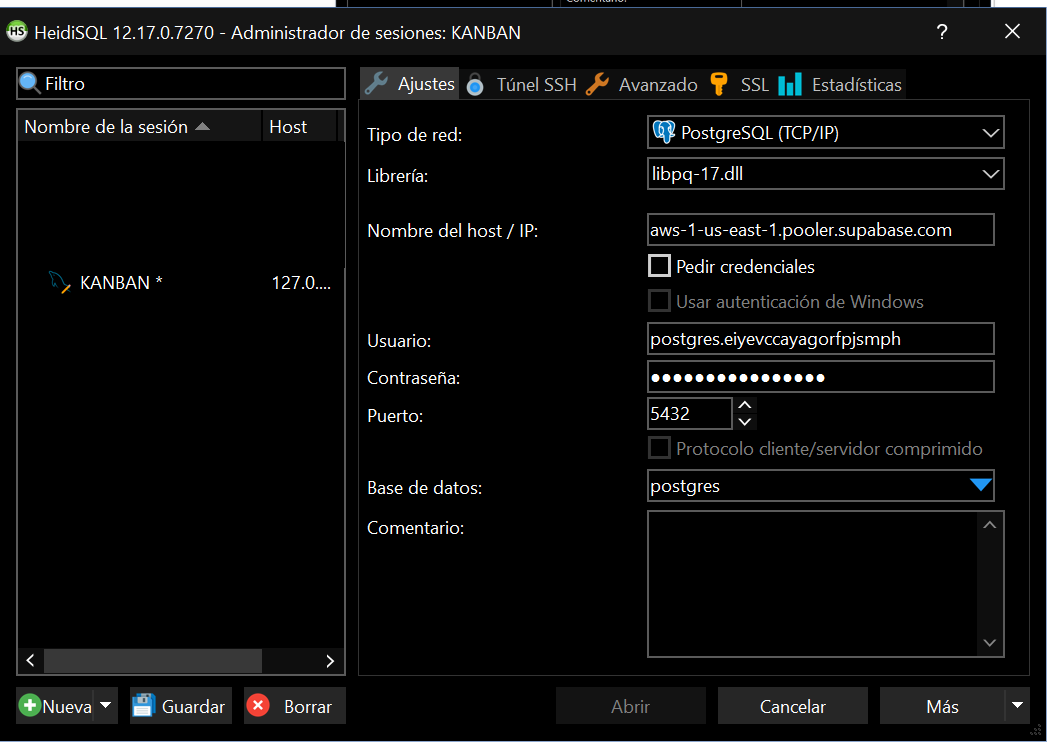
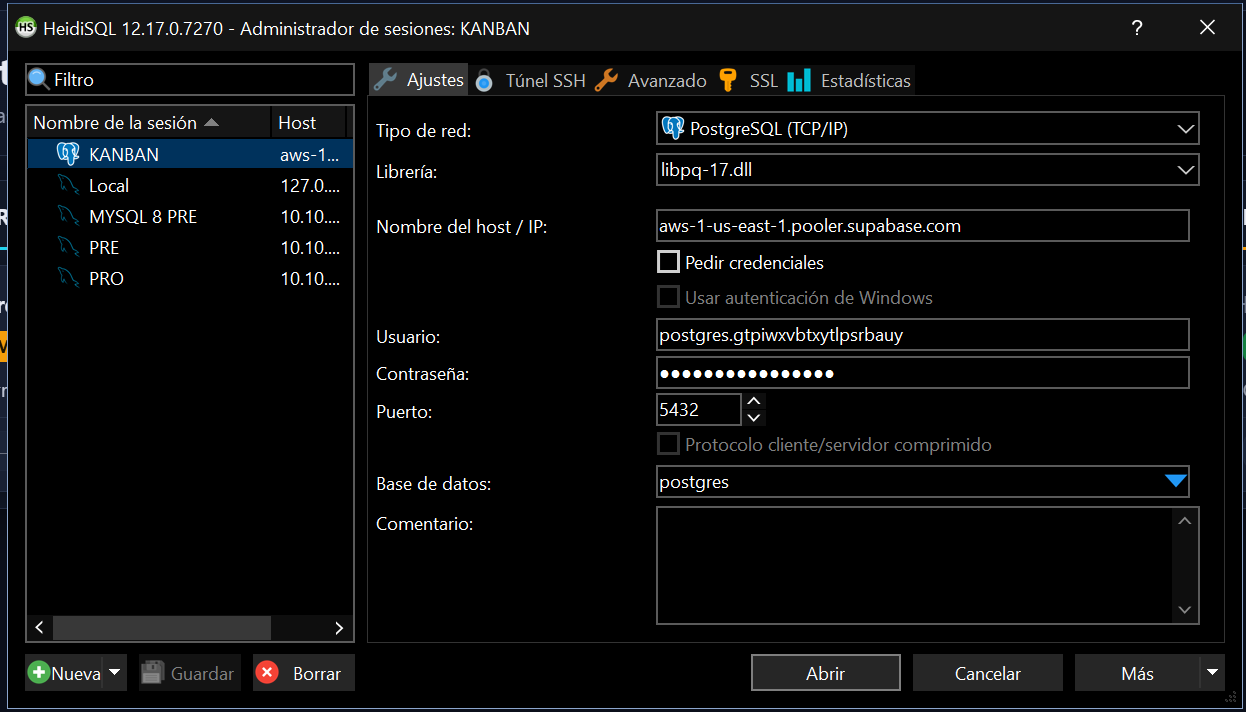
Manual: tips de URL de Render y vercel.json, consultas para HeidiSQL y diagnostico
- Apartado 13.6 a 13.8: que hacer si se recrea el servicio de Render, que dominio de Vercel compartir y tabla de sintomas.
- HeidiSQL: insertar, modificar y borrar tareas, valores permitidos y limite de 3 en curso.
- Problemas comunes: 404 en api/tareas y autenticacion en HeidiSQL.
- Captura de la sesion de HeidiSQL actualizada.

diff --git a/index.html b/index.html
@@ -652,6 +652,43 @@ git push origin main</code></pre>
   <figure><button type="button" aria-label="Ampliar captura"><img src="img/38-tablero-funcionando.png" alt="Tablero Kanban en Vercel con tres tareas repartidas en las columnas Por hacer, En curso y Hecha" loading="lazy"></button><figcaption>El front en Vercel, conectado al backend de Render y a la base en Supabase: las tres tareas de ejemplo aparecen en sus columnas.</figcaption></figure>
   <p>Estas tareas no vienen del front: pasan por toda la cadena <strong>Vercel → Render → Supabase</strong>. Para comprobar que también se guardan, crea una tarea con <strong>+ Nueva tarea</strong>, recarga la página y verifica que sigue ahí. Después puedes verla en el <em>Table Editor</em> de Supabase.</p>
   <div class="note warn"><strong>Si tarda o falla</strong>Si el backend de Render estaba dormido, la primera carga puede tardar hasta un minuto o mostrar un error. Espera y recarga. Es el comportamiento normal del plan Free.</div>
+
+  <h3>13.6 Si cambias o recreas el servicio de Render</h3>
+  <p>La dirección <code>https://&lt;servicio&gt;.onrender.com</code> pertenece a ese servicio. Si lo borras y creas otro, Render asigna una dirección <strong>nueva</strong> (el nombre más un sufijo) y la anterior deja de existir. Tu <code>vercel.json</code> sigue apuntando a la vieja.</p>
+  <p><strong>Síntoma:</strong> el sitio abre, pero el tablero muestra el banner rojo y la consola del navegador (<strong>F12 → Console</strong>) dice <em>Failed to load resource: … api/tareas … 404</em>.</p>
+  <figure><button type="button" aria-label="Ampliar captura"><img src="img/44-front-404-devtools.png" alt="Tablero con banner de error y la consola de DevTools mostrando un 404 en api/tareas" loading="lazy"></button><figcaption>El tablero en Vercel con el banner de error y, a la derecha, el 404 de <code>api/tareas</code> en la consola.</figcaption></figure>
+  <p><strong>Cómo arreglarlo:</strong></p>
+  <ol class="l">
+    <li>En Render abre tu servicio nuevo, comprueba que diga <strong>Live</strong> y copia su dirección: está justo debajo del nombre.</li>
+    <li>Prueba la API directo en el navegador, antes de tocar nada: <code>https://&lt;servicio-nuevo&gt;.onrender.com/api/tareas</code>. Debe mostrar el JSON de las tareas.</li>
+    <li>En <code>vercel.json</code> cambia solo la línea <code>destination</code>, sin quitar <code>/api/:path*</code> del final.</li>
+    <li>Guarda, haz commit y push. Vercel redespliega solo; espera a que quede en <em>Ready</em> y recarga con <strong>Ctrl + F5</strong>.</li>
+  </ol>
+  <figure><button type="button" aria-label="Ampliar captura"><img src="img/46-render-url-nueva.png" alt="Panel del servicio en Render con estado Live y la dirección onrender.com bajo el nombre" loading="lazy"></button><figcaption>La dirección del servicio aparece bajo su nombre, junto al estado <em>Live</em>. Ese es el valor para <code>destination</code>.</figcaption></figure>
+  <pre><button class="copy" type="button">Copiar</button><code>git add vercel.json
+git commit -m "Apuntar el front al nuevo backend en Render"
+git push origin main</code></pre>
+  <div class="note"><strong>Para que no vuelva a pasar</strong>No borres el servicio de Render para actualizarlo. Usa <strong>Manual Deploy → Deploy latest commit</strong>. Si cambias de base de datos, edita las variables en <strong>Environment</strong> del mismo servicio: Render lo reinicia con la misma dirección.</div>
+
+  <h3>13.7 Qué dirección de Vercel compartir</h3>
+  <p>En el detalle de un despliegue, Vercel muestra dos direcciones en <strong>Domains</strong>:</p>
+  <ul class="l">
+    <li><strong><code>nombre.vercel.app</code></strong> (icono de globo): el dominio de producción. Es fijo y se mantiene igual en cada despliegue. Es el que se comparte.</li>
+    <li><strong><code>nombre-&lt;código&gt;-&lt;usuario&gt;.vercel.app</code></strong>: la dirección de ese despliegue puntual. Cambia con cada push y puede pedir iniciar sesión en Vercel.</li>
+  </ul>
+  <figure><button type="button" aria-label="Ampliar captura"><img src="img/45-vercel-dominios.png" alt="Detalle de un despliegue en Vercel con estado Ready, entorno Production y dos dominios" loading="lazy"></button><figcaption>Despliegue en <em>Ready</em> y <em>Production</em>, con el dominio fijo y la dirección del despliegue.</figcaption></figure>
+
+  <h3>13.8 Qué revisar según el síntoma</h3>
+  <div class="tw"><table>
+    <thead><tr><th>Síntoma</th><th>Causa probable</th><th>Qué revisar</th></tr></thead>
+    <tbody>
+      <tr><td>404 en <code>/api/tareas</code></td><td>La dirección de Render en <code>vercel.json</code> ya no existe</td><td>Línea <code>destination</code> (13.6)</td></tr>
+      <tr><td>404 al recargar <code>/tablero</code></td><td>Falta la regla hacia <code>index.html</code></td><td>Segunda regla de <code>vercel.json</code></td></tr>
+      <tr><td>Muy lento o error 502 / 504</td><td>Render estaba dormido</td><td>Espera uno o dos minutos y recarga</td></tr>
+      <tr><td>Error 500</td><td>Falla del backend o de la base</td><td><strong>Logs</strong> del servicio en Render</td></tr>
+      <tr><td>Cambié algo y no se ve</td><td>Despliegue sin terminar o caché</td><td>Espera <em>Ready</em> y pulsa <strong>Ctrl + F5</strong></td></tr>
+    </tbody>
+  </table></div>
 </section>
 
 <section class="block" id="despues">
@@ -715,6 +752,30 @@ order by installed_rank;</code></pre>
   <p>Las columnas de <code>tarea</code> son <code>id</code>, <code>titulo</code>, <code>descripcion</code>, <code>estado</code>, <code>prioridad</code>, <code>fecha_limite</code>, <code>creada_en</code> y <code>actualizada_en</code>.</p>
   <div class="note"><strong>Prueba para el aula</strong>Crea una tarea desde el tablero de Vercel y vuelve a ejecutar <code>select * from tarea;</code>. Debe aparecer una fila más: el tablero escribe en la misma base que estás consultando.</div>
 
+  <h3>5. Insertar, modificar y borrar tareas</h3>
+  <p>También puedes escribir datos desde HeidiSQL. La tabla se llama <code>tarea</code>, en singular. No incluyas <code>id</code>, <code>creada_en</code> ni <code>actualizada_en</code>: la base los llena sola.</p>
+  <p><strong>Insertar una tarea:</strong></p>
+  <pre><button class="copy" type="button">Copiar</button><code>insert into tarea (titulo, descripcion, estado, prioridad, fecha_limite)
+values ('Probar el despliegue', 'Revisar el tablero en Vercel', 'POR_HACER', 'ALTA', current_date + 3);</code></pre>
+  <p><strong>Insertar varias a la vez:</strong></p>
+  <pre><button class="copy" type="button">Copiar</button><code>insert into tarea (titulo, descripcion, estado, prioridad, fecha_limite) values
+  ('Crear el manual de Render', 'Con capturas del panel', 'POR_HACER', 'MEDIA', null),
+  ('Conectar con HeidiSQL', 'Probar la conexión a Supabase', 'EN_CURSO', 'ALTA', current_date + 2),
+  ('Subir el manual a GitHub', null, 'HECHA', 'BAJA', null);</code></pre>
+  <p><strong>Mover una tarea de columna o borrarla</strong> (cambia el <code>4</code> por el <code>id</code> de tu tarea):</p>
+  <pre><button class="copy" type="button">Copiar</button><code>update tarea set estado = 'EN_CURSO', actualizada_en = current_timestamp where id = 4;
+delete from tarea where id = 4;</code></pre>
+  <div class="tw"><table>
+    <thead><tr><th>Columna</th><th>Valores permitidos</th></tr></thead>
+    <tbody>
+      <tr><td>estado</td><td><code>POR_HACER</code>, <code>EN_CURSO</code> o <code>HECHA</code></td></tr>
+      <tr><td>prioridad</td><td><code>BAJA</code>, <code>MEDIA</code> o <code>ALTA</code></td></tr>
+      <tr><td>titulo</td><td>Obligatorio, máximo 100 caracteres</td></tr>
+      <tr><td>descripcion</td><td>Opcional, máximo 500 caracteres</td></tr>
+    </tbody>
+  </table></div>
+  <div class="note warn"><strong>El límite de 3 en curso</strong>El tablero dice «máximo 3 en curso a la vez», pero esa regla la aplica el backend, no la base. Un <code>insert</code> directo con <code>EN_CURSO</code> se la salta y podrías dejar más de 3. Si insertas varias tareas, déjalas en <code>POR_HACER</code>.</div>
+  <p>Después de insertar, recarga el tablero con <strong>Ctrl + F5</strong>: las tareas aparecen en sus columnas.</p>
   <h3>¿Entrar al servidor de Render por SSH (MobaXterm)?</h3>
   <p>No es posible con el plan gratuito. Render lo avisa en la pantalla de creación: las instancias <em>Free</em> no soportan acceso SSH. Además, tu servicio es un contenedor Docker, no un servidor con una IP propia para entrar. Para ver qué hace la aplicación tienes estas opciones gratuitas:</p>
   <ul class="l">
@@ -829,9 +890,16 @@ git push origin main</code></pre>
   </details>
   <details>
     <summary>La primera petición tarda casi un minuto</summary>
-    <div class="in"><p>Es normal en el plan Free: el servicio se duerme tras unos 15 minutos sin tráfico y tarda en despertar.</p></div>
+    <div class="in"><p>Es normal en el plan Free: el servicio se duerme tras unos 15 minutos sin tráfico y tarda en despertar. Render lo avisa en el panel (<em>Your free instance will spin down with inactivity, which can delay requests by 50 seconds or more</em>). En una prueba real la primera respuesta tardó más de dos minutos. Espera y recarga: las siguientes peticiones son rápidas.</p></div>
   </details>
   <details>
+    <summary>El tablero muestra error y la consola dice 404 en api/tareas</summary>
+    <div class="in"><p>Casi siempre es porque recreaste el servicio de Render y su dirección cambió. Copia la dirección nueva y actualiza <code>destination</code> en <code>vercel.json</code>. Pasos completos en el apartado 13.6.</p></div>
+  </details>
+  <details>
+    <summary>HeidiSQL: password authentication failed</summary>
+    <div class="in"><p>Revisa que el usuario sea el del pooler, <code>postgres.&lt;ref-del-proyecto&gt;</code>, y no solo <code>postgres</code>. Revisa también la contraseña y que la sesión esté guardada (sin asterisco) antes de pulsar <strong>Abrir</strong>.</p></div>
+  </details>  <details>
     <summary>Front: El sitio abre en blanco o responde 404</summary>
     <div class="in">
       <p>Casi siempre es la carpeta de salida. En Vercel entra al proyecto → <em>Settings</em> → <em>Build and Output Settings</em>, activa el lápiz de <strong>Output Directory</strong> y escribe la ruta real:</p>
